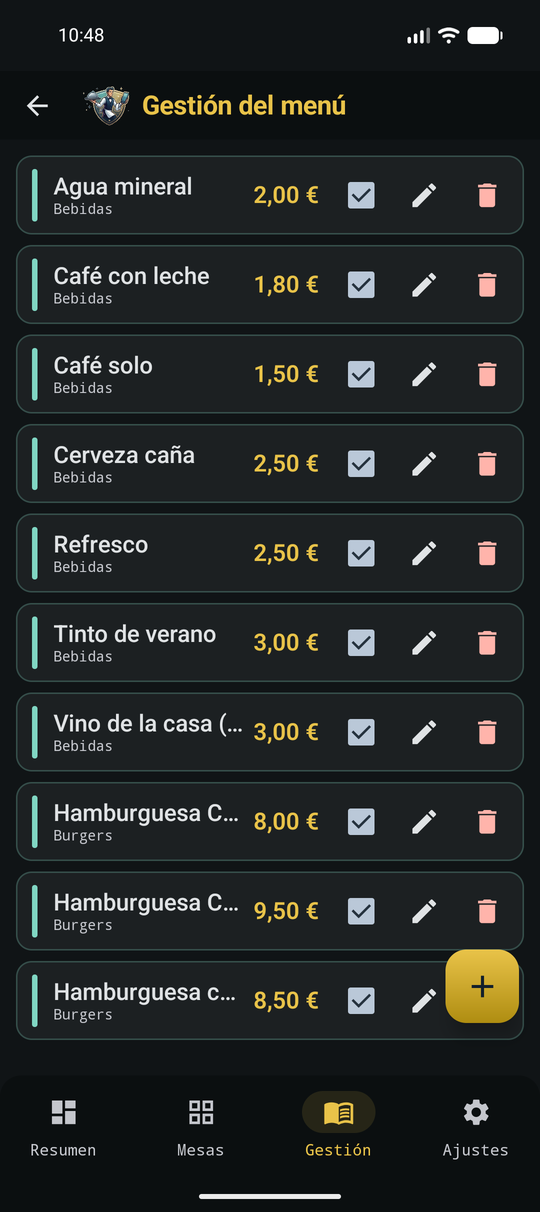
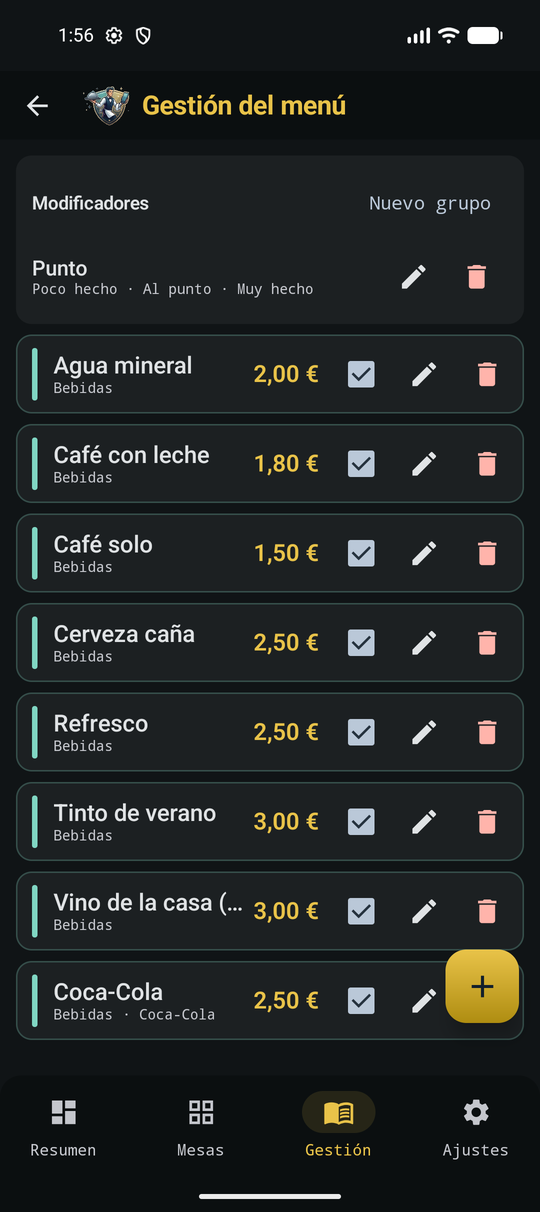
chore(release): preparar corte v1.7 (versionCode 8)
Bump de versión, docs y capturas de oficio (radar LAN y panel de oficio) para publicar el APK y el AAB.

diff --git a/scripts/check_docs_structure.py b/scripts/check_docs_structure.py
@@ -24,6 +24,9 @@ STALE = (
     "apk público actual es v1.5",
     "en desarrollo para v1.6",
     "v1.6 en desarrollo",
+    "release descargable actual es **v1.6",
+    "release pública actual es **v1.6",
+    "la release **v1.6** incluye",
 )
 ANTI_COPY_IN_ARQUITECTURA = (
     "RMS_UMBRAL_CERCANIA",

diff --git a/AGENTS.md b/AGENTS.md
@@ -8,7 +8,7 @@ It is **not** the venue back office. That job belongs to **Personal Bar** (sibli
 
 - Package: `com.jaminsmoke.personalcomander`
 - Min SDK: 24 · Target SDK: 36 · Compile SDK: 37
-- Version: 1.6 (versionCode 7)
+- Version: 1.7 (versionCode 8)
 - Repo: `jaminsmoke/PersonalComander`
 
 ## Stack
@@ -161,7 +161,7 @@ Detectado → Debate → Roadmap → Ejecutando → Verificando → Changelog
 
 **No skipping**: every item advances in order. Exception: `Cancelado` → Changelog.
 
-**Version always > latest release**: consult `gh release list`. Tras publicar **v1.6**, los ítems nuevos van a **v1.7**.
+**Version always > latest release**: consult `gh release list`. Tras publicar **v1.7**, los ítems nuevos van a **v1.8**.
 
 #### 1. Detectado — Describir el problema a fondo
 
@@ -350,7 +350,7 @@ Each item's body evolves through the lifecycle. The CLI generates a template at 
 | Prioridad | SingleSelect | Alta, Media, Baja |
 | Tipo | SingleSelect | Bug, Feature, Mejora, Tarea |
 | Área principal | SingleSelect | UI/UX, Datos, Voz, Sync, Android, Build/CI, Docs |
-| Versión | SingleSelect | v1.4, v1.5, v1.6, v1.7... |
+| Versión | SingleSelect | v1.4, v1.5, v1.6, v1.7, v1.8... |
 | Decision | SingleSelect | Pendiente, Aprobado, Diferido, Cancelado |
 | HighLighted | SingleSelect | Yes, No (for changelog highlights) |
 | Inicio exacto | Text | ISO-8601 UTC timestamp |

diff --git a/docs/manual/cuenta.md b/docs/manual/cuenta.md
@@ -1,6 +1,6 @@
 # Cuenta y turno
 
-La release **v1.6** incluye cuenta de camarero (Identity en el VPS), ficha pública, visibilidad y turno LAN con Personal Bar.
+La release **v1.7** incluye radar LAN en Resumen, panel de oficio, invitaciones, modificadores de carta, y la cuenta de camarero (Identity en el VPS) con ficha pública y turno LAN.
 
 ## Oficios
 
@@ -58,10 +58,13 @@ El payload, los códigos HTTP y la idempotencia están en [Protocolo LAN](../sal
 
 ## Qué hay en cada versión
 
-| Flujo | v1.5 | v1.6 |
-|---|---:|---:|
-| Board, mesas y comandas locales | Sí | Sí |
-| Voz on-device | Sí | Sí |
-| TPV y backup JSON | Sí | Sí |
-| Cuenta, perfil, QR y visibilidad | No | Sí |
-| Establecimiento, salas y ronda a Bar | No | Sí |
+| Flujo | v1.5 | v1.6 | v1.7 |
+|---|---:|---:|---:|
+| Board, mesas y comandas locales | Sí | Sí | Sí |
+| Voz on-device | Sí | Sí | Sí |
+| TPV y backup JSON | Sí | Sí | Sí |
+| Cuenta, perfil, QR y visibilidad | No | Sí | Sí |
+| Establecimiento, salas y ronda a Bar | No | Sí | Sí |
+| Radar LAN en Resumen | No | No | Sí |
+| Panel de oficio (horas y rondas) | No | No | Sí |
+| Modificadores y subfamilias | No | No | Sí |

diff --git a/README.es.md b/README.es.md
@@ -13,7 +13,7 @@ Español · [English](README.md)
 [![License](https://img.shields.io/github/license/jaminsmoke/PersonalComander?color=%23E9C349)](LICENSE)
 [![Kotlin](https://img.shields.io/badge/Kotlin-2.4.10-7F52FF?logo=kotlin&logoColor=white)](https://kotlinlang.org)
 
-**v1.6** · Android 7.0+ (API 24) · [🌐 Sitio](https://jaminsmoke.github.io/PersonalComander/) · [📖 Manual](https://jaminsmoke.github.io/PersonalComander/manual/)
+**v1.7** · Android 7.0+ (API 24) · [🌐 Sitio](https://jaminsmoke.github.io/PersonalComander/) · [📖 Manual](https://jaminsmoke.github.io/PersonalComander/manual/)
 
 </div>
 
@@ -54,7 +54,7 @@ Regenera los assets públicos tras un cambio de marca o de UI para no desincroni
 
 ## Roadmap
 
-- **v1.7** — ciclo actual del kanban.
+- **v1.8** — ciclo actual del kanban.
 - Más adelante — funcionalidades premium (ver modelo de licencia).
 
 ## Contribuir

diff --git a/README.md b/README.md
@@ -13,7 +13,7 @@
 [![License](https://img.shields.io/github/license/jaminsmoke/PersonalComander?color=%23E9C349)](LICENSE)
 [![Kotlin](https://img.shields.io/badge/Kotlin-2.4.10-7F52FF?logo=kotlin&logoColor=white)](https://kotlinlang.org)
 
-**v1.6** · Android 7.0+ (API 24) · [🌐 Site](https://jaminsmoke.github.io/PersonalComander/) · [📖 Manual](https://jaminsmoke.github.io/PersonalComander/manual/)
+**v1.7** · Android 7.0+ (API 24) · [🌐 Site](https://jaminsmoke.github.io/PersonalComander/) · [📖 Manual](https://jaminsmoke.github.io/PersonalComander/manual/)
 
 </div>
 
@@ -54,7 +54,7 @@ Regenerate public assets after a rebrand or UI redesign so the README and the si
 
 ## Roadmap
 
-- **v1.7** — current kanban cycle.
+- **v1.8** — current kanban cycle.
 - Later — premium features (see licensing model).
 
 ## Contributing

diff --git a/docs/manual/instalacion.md b/docs/manual/instalacion.md
@@ -12,7 +12,7 @@ La app funciona en tablet, pero el oficio de Commander es el teléfono del camar
 
 ## Instalar el APK
 
-1. Descarga la última versión desde [Releases](https://github.com/jaminsmoke/PersonalComander/releases/latest) (fichero `.apk`). La release pública actual es **v1.6**.
+1. Descarga la última versión desde [Releases](https://github.com/jaminsmoke/PersonalComander/releases/latest) (fichero `.apk`). La release pública actual es **v1.7**.
 2. Copia el APK al dispositivo o descárgalo directamente.
 3. Toca el fichero y acepta la instalación de orígenes desconocidos si el sistema lo pide.
 4. Abre Personal Comander.

diff --git a/docs/manual/faq.md b/docs/manual/faq.md
@@ -16,7 +16,7 @@ En el **header**: botón **Entrar**. No está en Ajustes. Con sesión, el chip (
 
 ## ¿La cuenta y el turno con Bar ya están en la release?
 
-Sí. La release pública actual es **v1.6**: cuenta, perfil, QR, visibilidad y ronda LAN a Personal Bar.
+Sí. La release pública actual es **v1.7**: radar LAN en Resumen, oficio, invitaciones y modificadores, además de cuenta, perfil y ronda a Personal Bar.
 
 ## ¿Qué pasa si cierro la mesa por error?
 

diff --git a/docs/manual/index.md b/docs/manual/index.md
@@ -1,6 +1,6 @@
 # Manual de usuario
 
-Guía de **Personal Comander** para el camarero en sala. La release descargable actual es **v1.6**.
+Guía de **Personal Comander** para el camarero en sala. La release descargable actual es **v1.7**.
 
 Commander es la app del teléfono: mesas, comanda (toque y voz) y cuenta profesional. No es el puesto del negocio (eso es Personal Bar) ni el registro de cuentas (eso es Identity, en el VPS).
 

diff --git a/docs/arquitectura.md b/docs/arquitectura.md
@@ -51,7 +51,7 @@ UI (Compose) → ViewModel (StateFlow) → Repository → Room (SQLite)
                     ↑                        ↓
                  VozParser (NLP)        Sync TPV (Gson/LAN)
                   Backup JSON (import/export)
-                  Identity / Personal Bar (v1.6)
+                  Identity / Personal Bar (v1.7)
 ```
 
 - Los ViewModels exponen `StateFlow` que la UI consume con `collectAsState()`.

diff --git a/docs/index.md b/docs/index.md
@@ -34,8 +34,8 @@ En la familia PersonalHostel, Commander es el teléfono de sala. **Personal Bar*
 
 <div class="pc-aviso" markdown>
 
-!!! info "v1.6"
-    Cuenta de camarero, ficha pública y turno LAN con Personal Bar. El detalle está en el [manual](manual/index.md).
+!!! info "v1.7"
+    Radar LAN en Resumen, panel de oficio, invitaciones y modificadores de carta. El detalle está en el [manual](manual/index.md).
 
 </div>
 
